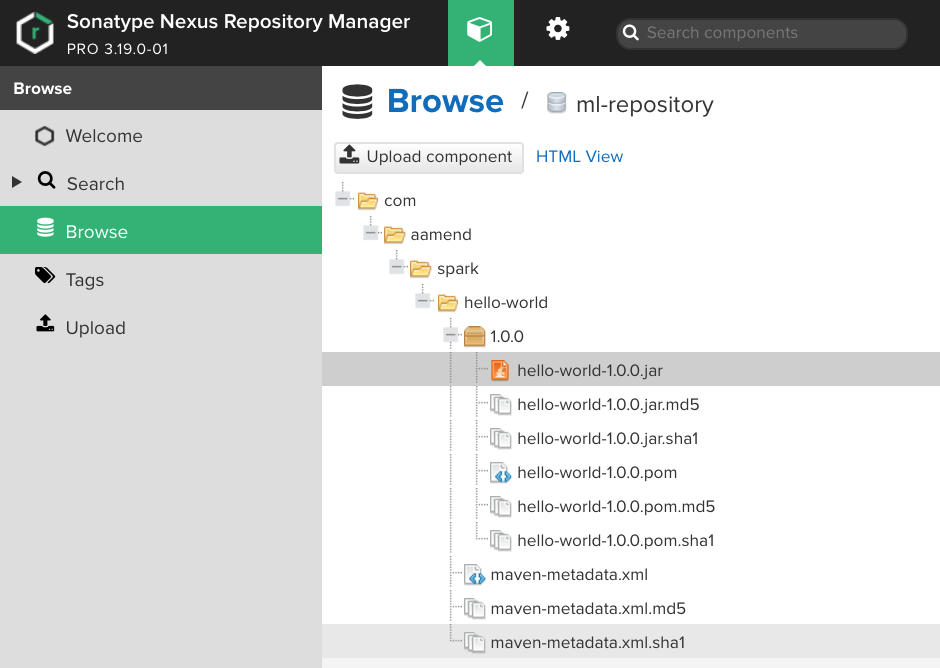
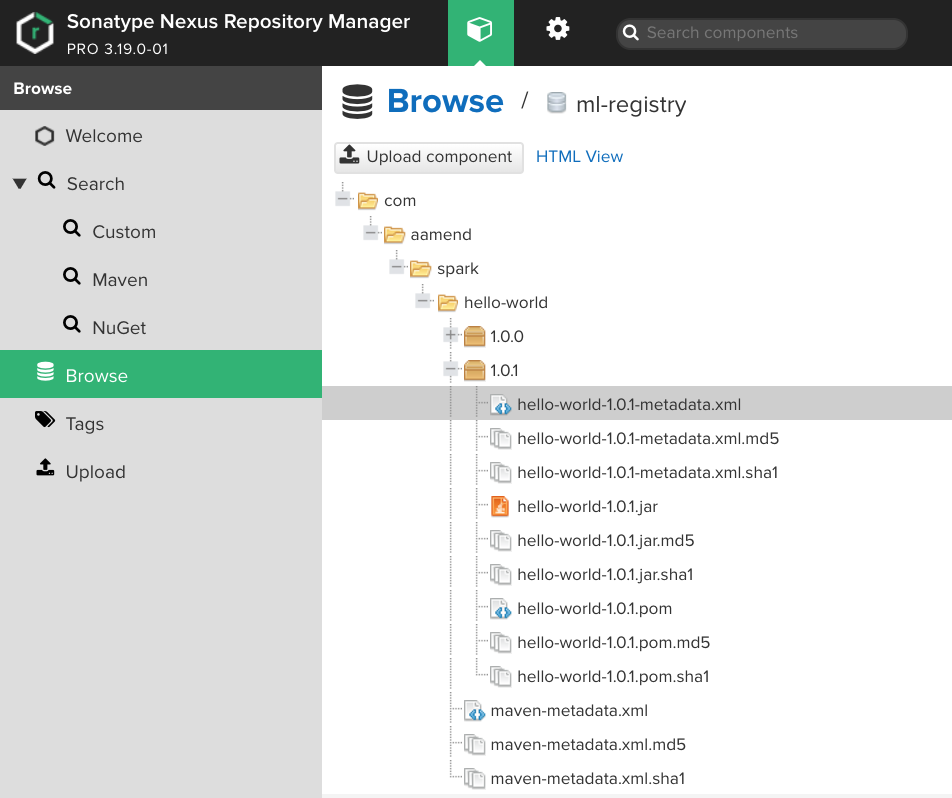
README.md

Changed region(s): [[0.0, 0.0, 1.0, 0.988], [0.0309, 0.5689, 0.1234, 0.5988]]

diff --git a/README.md b/README.md
@@ -153,6 +153,10 @@ Resulting artifact will be released to nexus and - as such - considered as immut
 
 ![ml-version](images/model-versioned.png)
 
+We also extract all parameters used across ML pipeline and report those as part of artifact metadata on nexus
+
+![ml-metadata](images/model-metadata.png)
+
 ### Resolve Pipeline
 
 Given that we consider each pipeline model as a standard maven dependency available on nexus, 
